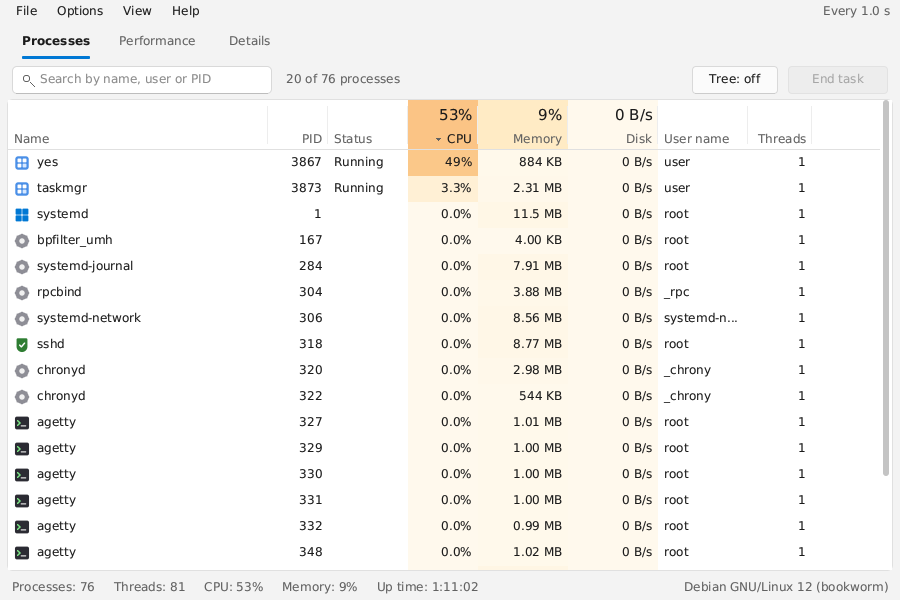
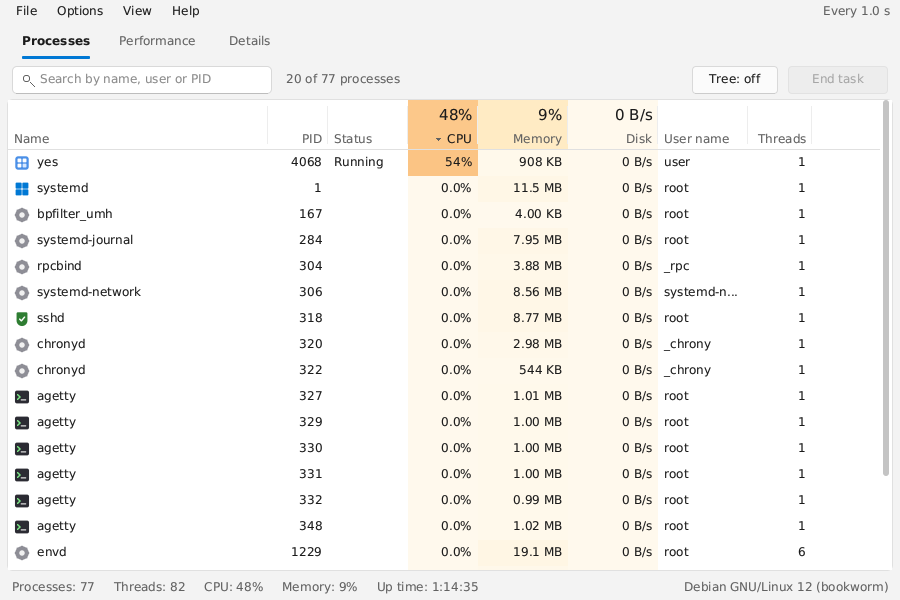
Performance graphs: dashed secondary series along the path, nice axis maxima, translucent fill, 60 s window, cleaner legend

diff --git a/src/ui.c b/src/ui.c
@@ -484,45 +484,85 @@ static void checkbox_mark(UI *u, int x, int y, uint32_t c)
     gfx_line_aa(g, x, y + P(5), x + P(3), y + P(8), c); gfx_line_aa(g, x + P(3), y + P(8), x + P(8), y + P(2), c);
 }
 
-/* time-series graph */
+/* dashed anti-aliased polyline: dashes follow the path (arc length), not the samples */
+static void dashed_seg(Gfx *g, float x0, float y0, float x1, float y1, float *acc, uint32_t c)
+{
+    const float dash = 5.f, gap = 4.f, period = dash + gap;
+    float dx = x1 - x0, dy = y1 - y0, L = sqrtf(dx * dx + dy * dy);
+    if (L <= 0) return;
+    float pos = 0;
+    while (pos < L) {
+        float phase = fmodf(*acc + pos, period);
+        if (phase < dash) {
+            float end = pos + (dash - phase); if (end > L) end = L;
+            gfx_line_aa(g, x0 + dx * pos / L, y0 + dy * pos / L, x0 + dx * end / L, y0 + dy * end / L, c);
+            pos = end;
+        } else pos += period - phase;
+    }
+    *acc += L;
+}
+
+static float nice_bytes(float v, float minimum)
+{
+    /* like nice_max but in binary units: 1,2,5,10,20,50,100,200,500 KB/s, 1,2,5.. MB/s */
+    if (v < minimum) v = minimum;
+    float unit = 1;
+    while (v / unit >= 1000 && unit < (float)(1ull << 40)) unit *= 1024;
+    float m = v / unit, n = 1;
+    while (n < m) n = n < 2 ? 2 : n < 5 ? 5 : n < 10 ? 10 : n * 2 <= 20 ? 20 : n < 50 ? 50 : n < 100 ? 100 : n < 200 ? 200 : n < 500 ? 500 : 1000;
+    return n * unit;
+}
+
+/* time-series graph: a = filled primary series, b = optional dashed secondary series */
 static void graph(UI *u, Rect r, const float *a, const float *b, float max, uint32_t line, uint32_t fill, uint32_t grid, int mini)
 {
     Gfx *g = &u->g;
+    (void)fill;
     gfx_fill(g, r.x, r.y, r.w, r.h, C_PANEL);
-    int cells = mini ? 4 : 10;
-    for (int i = 1; i < cells; i++) {
-        gfx_vline(g, r.x + r.w * i / cells, r.y, r.h, grid);
-        if (!mini) gfx_hline(g, r.x, r.y + r.h * i / cells, r.w, grid);
-    }
+    if (!mini)
+        for (int i = 1; i < 10; i++) { gfx_vline(g, r.x + r.w * i / 10, r.y, r.h, grid); gfx_hline(g, r.x, r.y + r.h * i / 10, r.w, grid); }
     if (max <= 0) max = 1;
     int n = u->hcount;
-    gfx_clip(g, r.x + P(1), r.y + P(1), r.w - P(2), r.h - P(2));
-    for (int pass = 0; pass < 2; pass++) {
-        const float *h = pass ? b : a;
-        if (!h) continue;
-        float px = -1, py = -1;
-        for (int age = 0; age < HIST; age++) {
-            float x = r.x + r.w - 1 - (float)age * (r.w - 1) / (HIST - 1);
-            float v = age < n ? hist_at(h, u->hpos, u->hcount, age) : 0;
-            if (v > max) v = max;
-            float y = r.y + r.h - 1 - v / max * (r.h - 2);
-            if (!pass && age < n && px >= 0) {
-                int xi0 = (int)x, xi1 = (int)px;
-                for (int xi = xi0; xi <= xi1; xi++) {
-                    float t = px == x ? 0 : (xi - x) / (px - x), yy = y + (py - y) * t;
-                    gfx_fill(g, xi, (int)yy + 1, 1, r.y + r.h - (int)yy, fill);
+    int x0 = r.x + P(1), x1 = r.x + r.w - P(1), yb = r.y + r.h - P(1), top = r.y + P(2);
+    float span = (float)(x1 - x0), hgt = (float)(yb - top);
+    gfx_clip(g, x0, r.y + P(1), x1 - x0, r.h - P(2));
+
+    /* primary: filled area (translucent so the grid shows through) then the line */
+    if (a && n > 1) {
+        int prevx = -1; float prevy = 0;
+        for (int age = 0; age < n; age++) {
+            float v = hist_at(a, u->hpos, n, age); if (v > max) v = max; if (v < 0) v = 0;
+            int x = x1 - (int)(age * span / (HIST - 1) + 0.5f);
+            float y = yb - v / max * hgt;
+            if (prevx >= 0) {
+                for (int xi = x; xi <= prevx; xi++) {
+                    float t = prevx == x ? 0 : (float)(xi - x) / (prevx - x);
+                    int yy = (int)(y + (prevy - y) * t + 0.5f);
+                    gfx_blend(g, xi, yy, 1, yb - yy + 1, line, 38);
                 }
             }
-            if (px >= 0 && age <= n) {
-                if (pass) { if ((age & 1) == 0) gfx_line_aa(g, px, py, x, y, line); }
-                else gfx_line_aa(g, px, py, x, y, line);
-            }
+            prevx = x; prevy = y;
+        }
+        float px = -1, py = 0;
+        for (int age = 0; age < n; age++) {
+            float v = hist_at(a, u->hpos, n, age); if (v > max) v = max; if (v < 0) v = 0;
+            float x = x1 - age * span / (HIST - 1), y = yb - v / max * hgt;
+            if (px >= 0) gfx_line_aa(g, px, py, x, y, line);
             px = x; py = y;
-            if (age >= n) break;
+        }
+    }
+    /* secondary: dashed line in the same colour */
+    if (b && n > 1) {
+        float px = -1, py = 0, acc = 0;
+        for (int age = 0; age < n; age++) {
+            float v = hist_at(b, u->hpos, n, age); if (v > max) v = max; if (v < 0) v = 0;
+            float x = x1 - age * span / (HIST - 1), y = yb - v / max * hgt;
+            if (px >= 0) dashed_seg(g, px, py, x, y, &acc, line);
+            px = x; py = y;
         }
     }
     gfx_noclip(g);
-    gfx_rect(g, r.x, r.y, r.w, r.h, gfx_lerp(line, C_PANEL, 0.35f));
+    gfx_rect(g, r.x, r.y, r.w, r.h, line);
 }
 
 /* ---- table drawing ---------------------------------------------------------- */
@@ -704,11 +744,11 @@ static void draw_perf(UI *u, Rect a)
     snprintf(sub[1], 48, "%s / %s (%.0f%%)", b1, b2, u->sys.mem_total ? 100.0 * u->sys.mem_used / u->sys.mem_total : 0);
     fmt_rate(b1, 24, u->drd); fmt_rate(b2, 24, u->dwr); snprintf(sub[2], 48, "R: %s  W: %s", b1, b2);
     fmt_rate(b1, 24, u->nrx); fmt_rate(b2, 24, u->ntx); snprintf(sub[3], 48, "R: %s  S: %s", b1, b2);
-    uint32_t lc[4] = { C_CPU, C_MEM, C_DISK, C_NET }, fc[4] = { C_CPUF, C_MEMF, C_DISKF, C_NETF }, gc[4] = { C_CPUG, C_MEMG, C_DISKG, C_NETG };
+    uint32_t lc[4] = { C_CPU, C_MEM, C_DISK, C_NET }, fc[4], gc[4];
+    for (int i = 0; i < 4; i++) { fc[i] = gfx_lerp(lc[i], C_PANEL, 0.85f); gc[i] = gfx_lerp(lc[i], C_PANEL, 0.82f); }
     float dmax = 1; for (int i = 0; i < u->hcount; i++) { float v = hist_at(u->hdrd, u->hpos, u->hcount, i) + hist_at(u->hdwr, u->hpos, u->hcount, i); if (v > dmax) dmax = v; }
     float nmax = 1; for (int i = 0; i < u->hcount; i++) { float v = hist_at(u->hnrx, u->hpos, u->hcount, i); float w = hist_at(u->hntx, u->hpos, u->hcount, i); if (v > nmax) nmax = v; if (w > nmax) nmax = w; }
-    float dm = dmax; if (dm < 1024 * 1024) dm = 1024 * 1024;
-    float nm = nmax; if (nm < 100 * 1024) nm = 100 * 1024;
+    float dm = nice_bytes(dmax, 1024 * 1024), nm = nice_bytes(nmax, 100 * 1024);
     for (int i = 0; i < 4; i++) {
         Rect it = R(a.x + P(8), a.y + P(8) + i * P(74), lw - P(12), P(70));
         u->r_perf[i] = it;
@@ -769,11 +809,12 @@ static void draw_perf(UI *u, Rect a)
         gfx_text(g, mx, gy + gh + P(5), secs, C_DIM);
         gfx_text_r(g, mx + mw, gy + gh + P(5), "0", C_DIM);
         if (hb) {
-            int lx = mx + mw - P(190), ly = gy + gh + P(5);
-            gfx_fill(g, lx, ly + P(7), P(16), P(2), lc[page]);
-            gfx_text(g, lx + P(22), ly, page == 2 ? "Read" : "Receive", C_DIM);
-            for (int i = 0; i < P(16); i += P(5)) gfx_fill(g, lx + P(92) + i, ly + P(7), P(3), P(2), lc[page]);
-            gfx_text(g, lx + P(114), ly, page == 2 ? "Write" : "Send", C_DIM);
+            int lx = mx + P(120), ly = gy + gh + P(5);
+            gfx_fill(g, lx, ly + P(7), P(18), P(2), lc[page]);
+            gfx_text(g, lx + P(24), ly, page == 2 ? "Read" : "Receive", C_DIM);
+            int dx = lx + P(24) + gfx_textw(g, page == 2 ? "Read" : "Receive") + P(18);
+            for (int i = 0; i < P(18); i += P(6)) gfx_fill(g, dx + i, ly + P(7), P(3), P(2), lc[page]);
+            gfx_text(g, dx + P(24), ly, page == 2 ? "Write" : "Send", C_DIM);
         }
     }
 
@@ -1476,4 +1517,14 @@ void ui_hit_rects(UI *u, Rect *tabs3, Rect *end_btn, Rect *tree_btn, Rect *hdr, 
     if (tabs3) memcpy(tabs3, u->r_tabs, sizeof u->r_tabs);
     if (end_btn) *end_btn = u->r_end; if (tree_btn) *tree_btn = u->r_tree;
     if (hdr) *hdr = t->hdr; if (body) *body = t->body; if (row_h) *row_h = P(t->row_h);
+}
+
+/* test hook: push one synthetic sample of rates into the history */
+void ui_test_inject(UI *u, double drd, double dwr, double nrx, double ntx)
+{
+    u->drd = drd; u->dwr = dwr; u->nrx = nrx; u->ntx = ntx;
+    push_hist(u->hdrd, u->hpos, (float)drd); push_hist(u->hdwr, u->hpos, (float)dwr);
+    push_hist(u->hnrx, u->hpos, (float)nrx); push_hist(u->hntx, u->hpos, (float)ntx);
+    push_hist(u->hcpu, u->hpos, u->cpu_pct); push_hist(u->hmem, u->hpos, u->sys.mem_total ? 100.f * u->sys.mem_used / u->sys.mem_total : 0);
+    u->hpos = (u->hpos + 1) % HIST; if (u->hcount < HIST) u->hcount++;
 }

diff --git a/src/tm.h b/src/tm.h
@@ -21,7 +21,7 @@
 
 #define TM_VERSION "2.0.0"
 #define MAX_CPUS   256
-#define HIST       120            /* samples kept per graph */
+#define HIST       60             /* samples kept per graph (Windows shows 60 s) */
 
 /* ------------------------------------------------------------------ */
 /* Platform data                                                       */

diff --git a/README.md b/README.md
@@ -34,7 +34,7 @@ anti-aliased font, baked in so nothing needs to be installed).
 - Filters: show kernel threads, only my processes
 
 **Performance tab**
-- CPU, Memory, Disk, Network graphs with 120-sample history, exactly like the original
+- CPU, Memory, Disk, Network graphs with a 60-second history, exactly like the original
 - CPU: utilization, clock speed, processes / threads / handles, up time, sockets, cores, load average
 - Per-logical-processor view (`Ctrl+L`)
 - Memory: in-use / available / committed / cached / swap with composition bar
